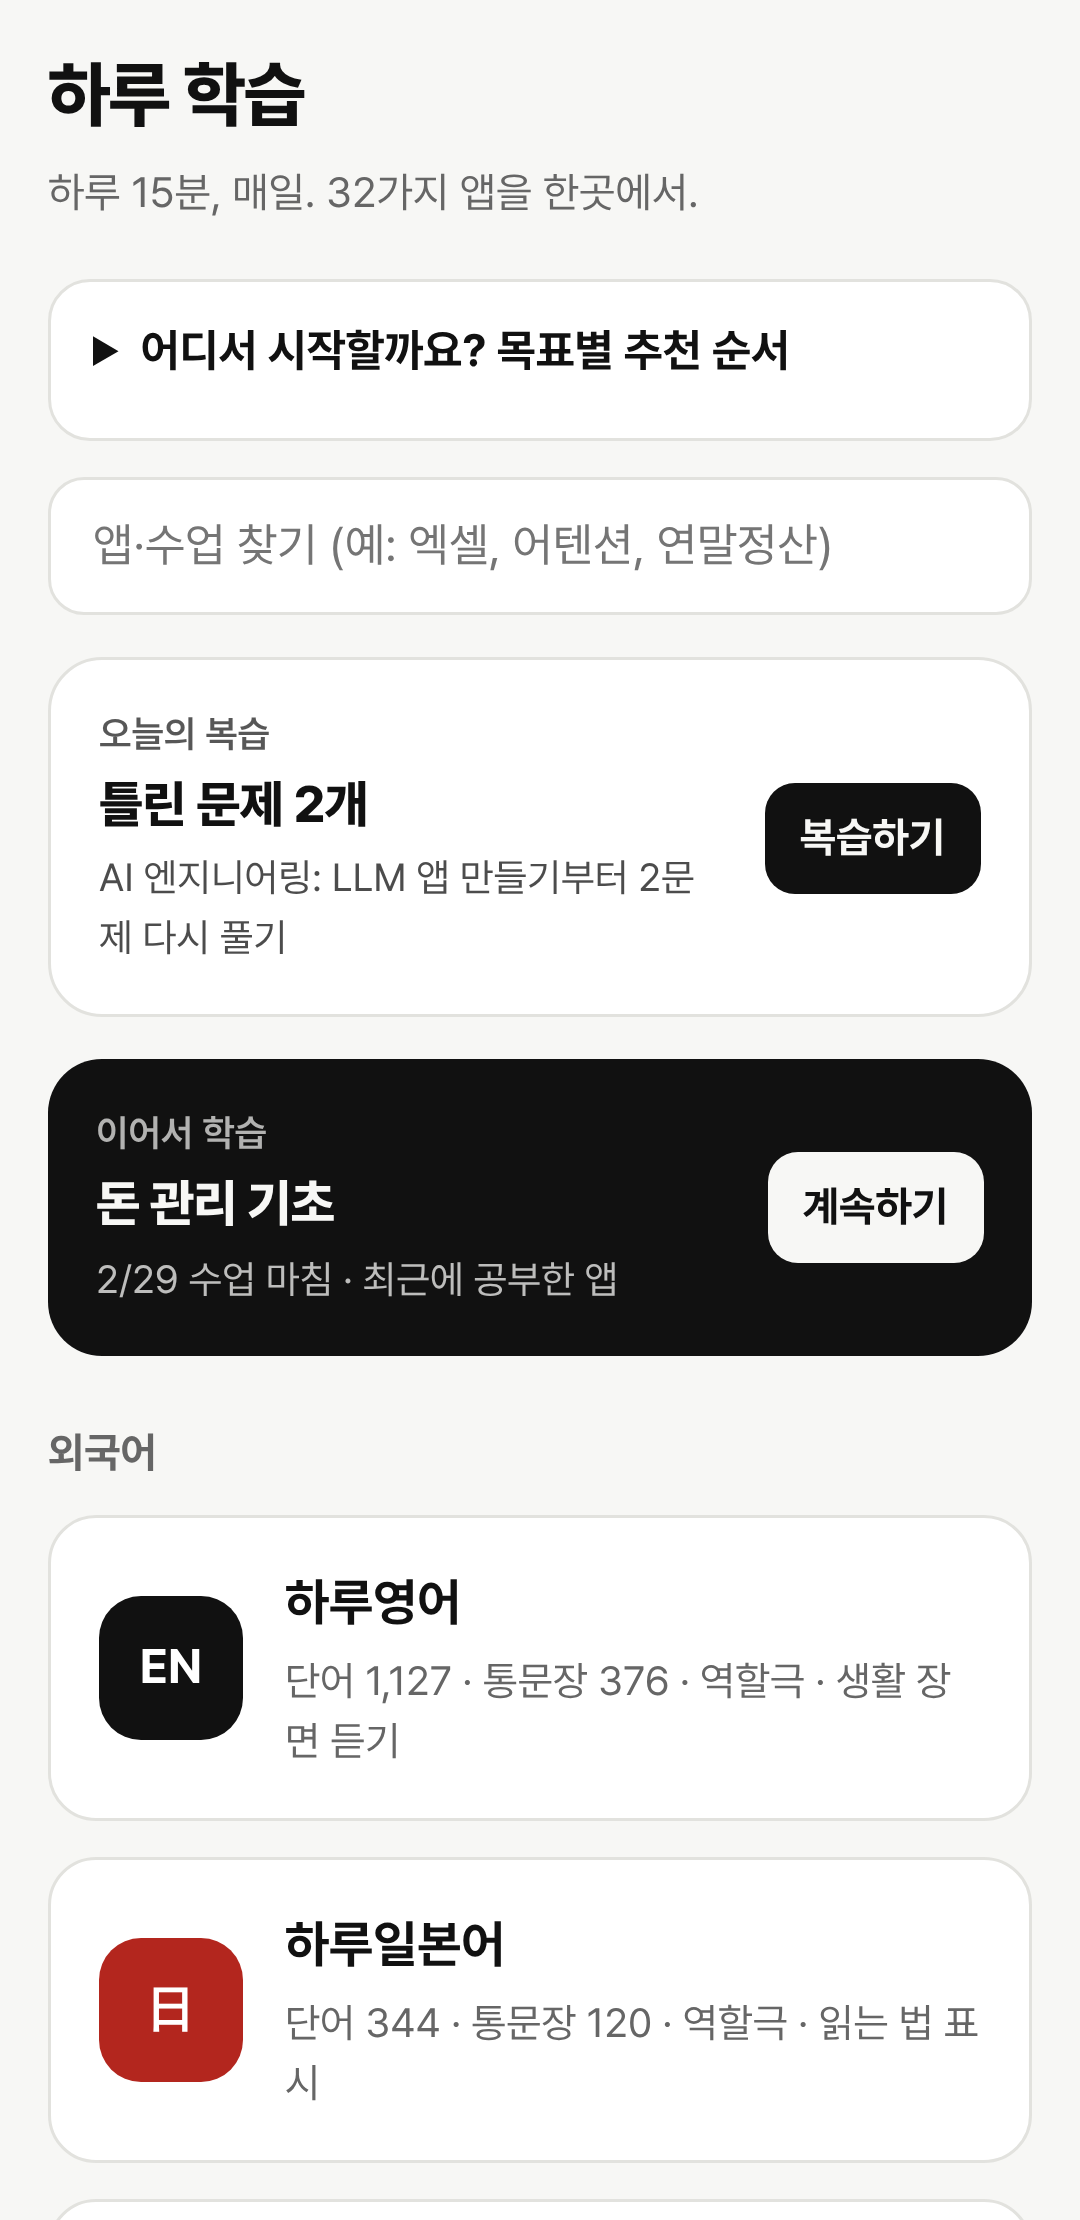
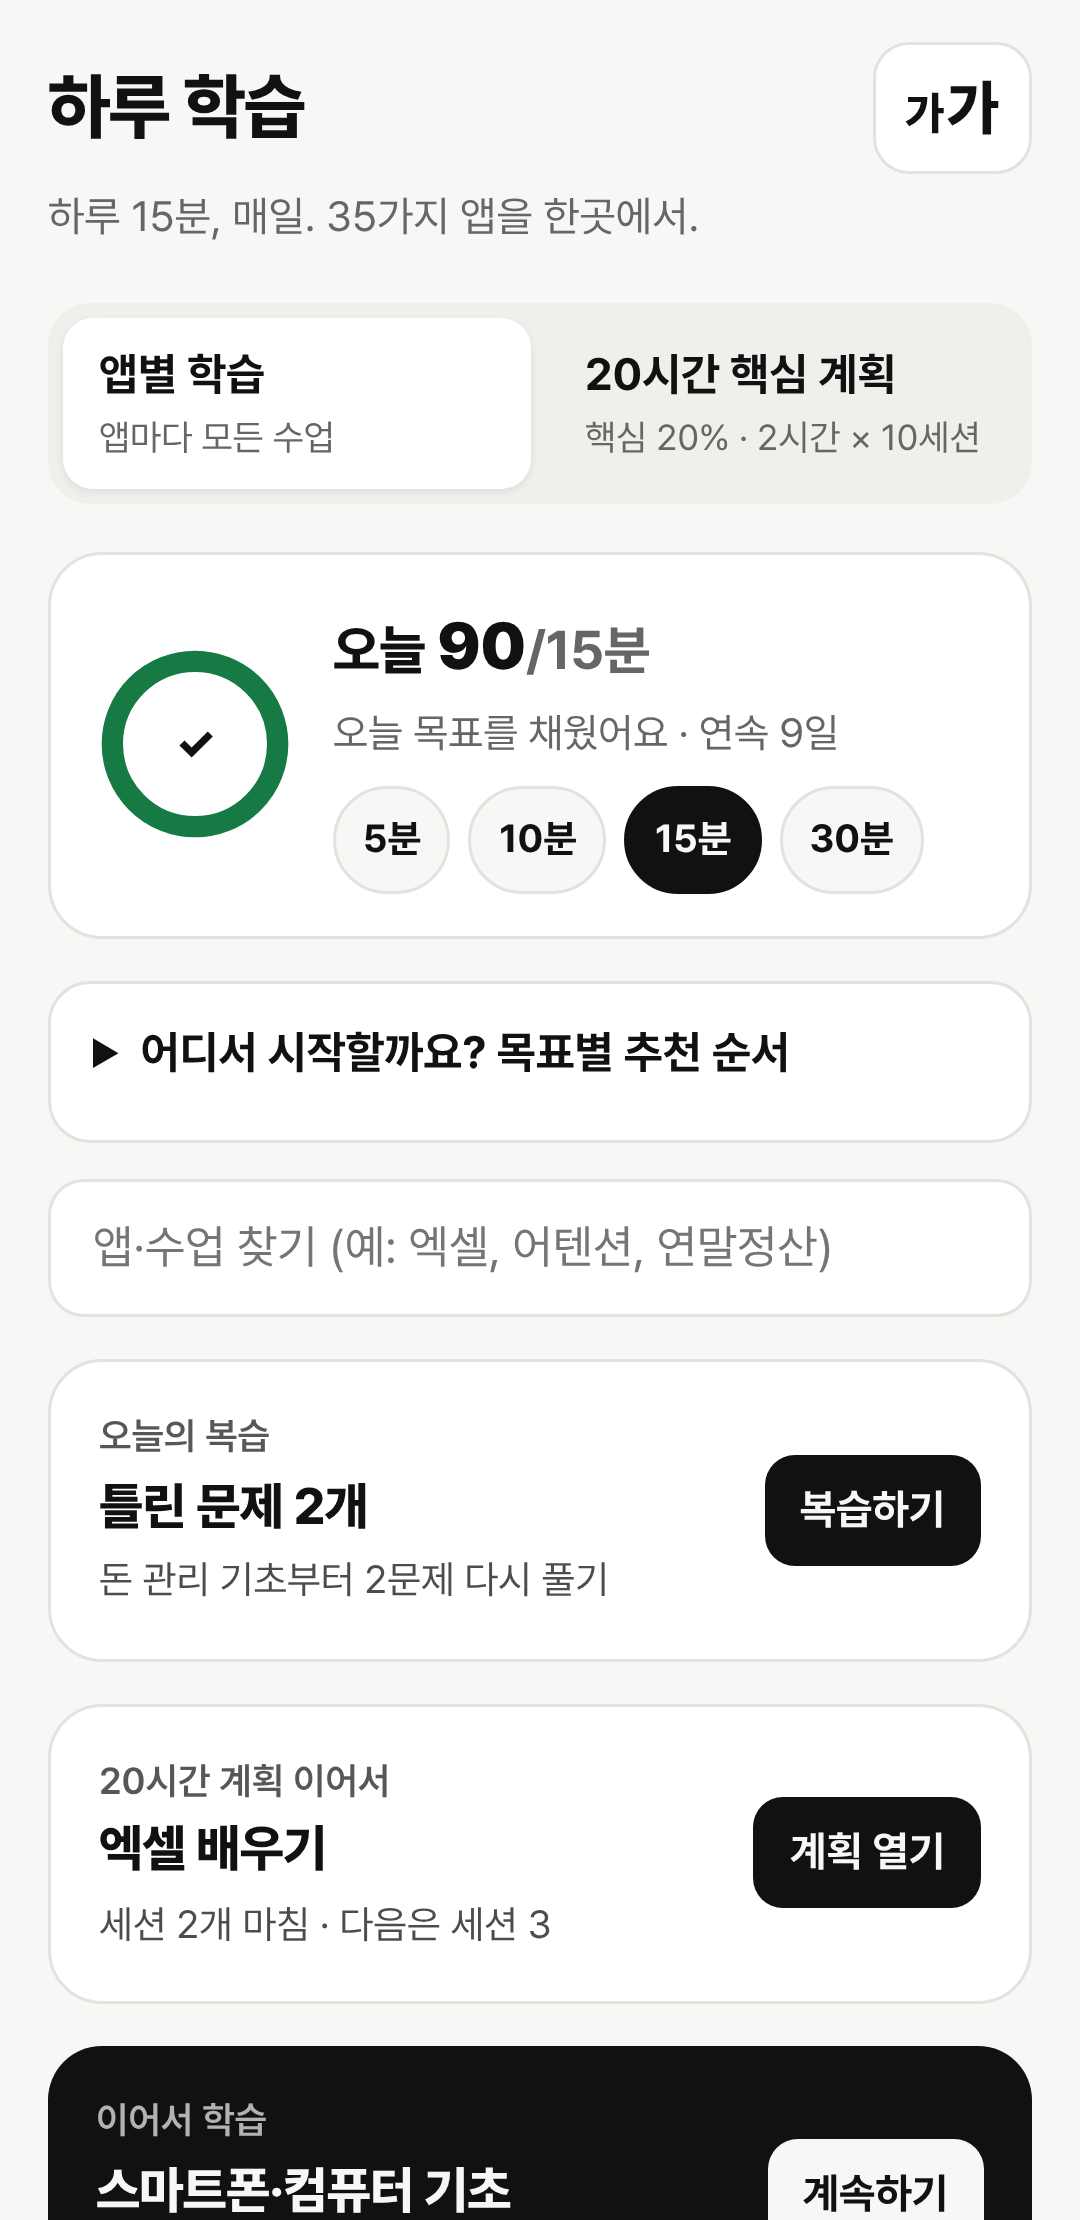
스토어 소개문·매니페스트 스크린샷 갱신(새 기능 반영), 새 순서의 원본 화면
Claude-Session: https://claude.ai/code/session_0136azkk3b87K8drdpEjQ26j

diff --git a/store/listing.md b/store/listing.md
@@ -32,6 +32,11 @@
 • 외국어는 발음 듣기(기기 음성), 간격 반복 복습, 역할극으로 연습해요
 
 ■ 편하게
+• 오늘 15분 목표와 모든 앱을 합친 연속 학습일
+• 글자 크기 3단계(보통·크게·아주 크게), 수업을 소리로 듣기
+• 휴대폰 '뒤로' 버튼으로 앱 안에서 한 화면씩 돌아가기
+• '모든 수업 오프라인 저장' 한 번이면 인터넷 없이도 모든 앱 열기
+• 틀린 내용을 발견하면 수업에서 바로 알리기
 • 회원가입·로그인 없음, 광고 없음
 • 한 번 연 수업은 인터넷 없이도 열려요
 • 다크 모드 지원, 큰 글씨로 읽기 쉬운 화면
@@ -44,7 +49,7 @@
 • 하루 학습은 독립적으로 만든 비공식 학습 앱이에요. Anthropic(Claude), Google(YouTube·Google 시트·Google 폼), Microsoft(Excel), GitHub 등 언급된 회사와 제휴·후원·승인 관계가 없으며, 각 상표는 해당 소유자의 것이에요.
 • AI 엔지니어링 수업은 MIT 라이선스로 공개된 AI Engineering from Scratch(© 2026 Rohit Ghumare)를 한국어로 옮기고 다시 정리했어요.
 • 돈·세금 수업은 교육 자료이며 개별 세무·투자 자문이 아니에요.
-• AI와 대화하는 연습 기능은 웹 버전을 claude.ai에서 열었을 때만 동작해요. 앱에서는 프롬프트를 복사해 원하는 AI 서비스에 붙여 넣어 쓸 수 있어요.
+• AI 대화·진단 기능은 웹 버전을 claude.ai에서 열었을 때 앱 안에서 바로 돼요. 스토어 앱에서는 'AI 앱으로 보내기'로 질문을 휴대폰의 AI 앱에 넘기거나 복사해 쓸 수 있어요.
 
 ## 카테고리 / 태그
 교육 · 태그: 교육, 어학, 자기계발
@@ -59,7 +64,7 @@
 |---|---|---|
 | 앱 아이콘 | icon-512.png | 512×512 PNG |
 | 그래픽 이미지 | feature-graphic-1024x500.png | 1024×500 |
-| 휴대전화 스크린샷 8장 | screenshot-01 ~ 08 | 1080×1920 (9:16) |
+| 휴대전화 스크린샷 8장 | screenshot-01-hub ~ 08-stats | 1080×1920 (9:16) |
 | 원본 화면 | raw/ | 1080×2220 |
 
 ## 데이터 보안 양식 답변
